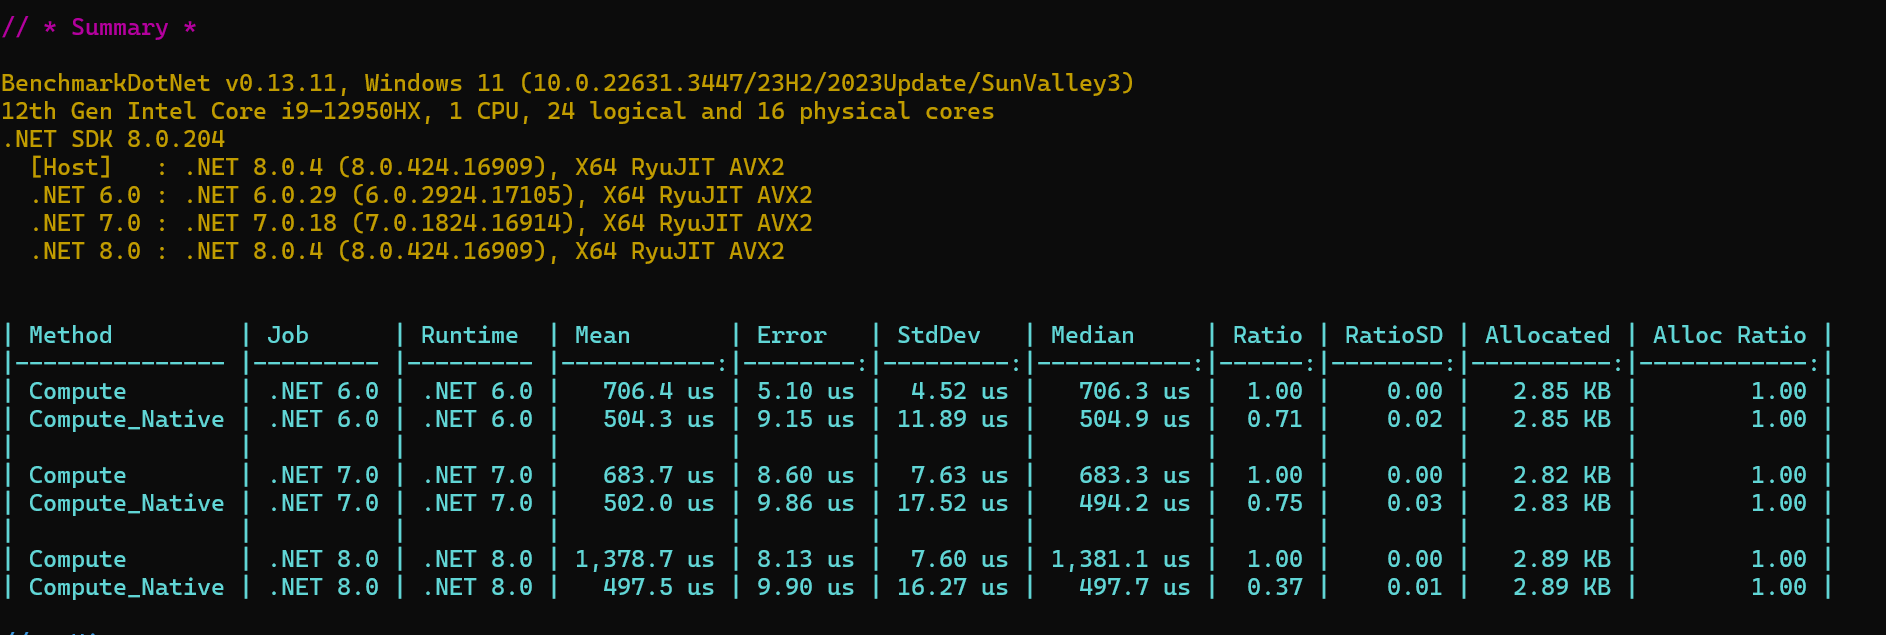
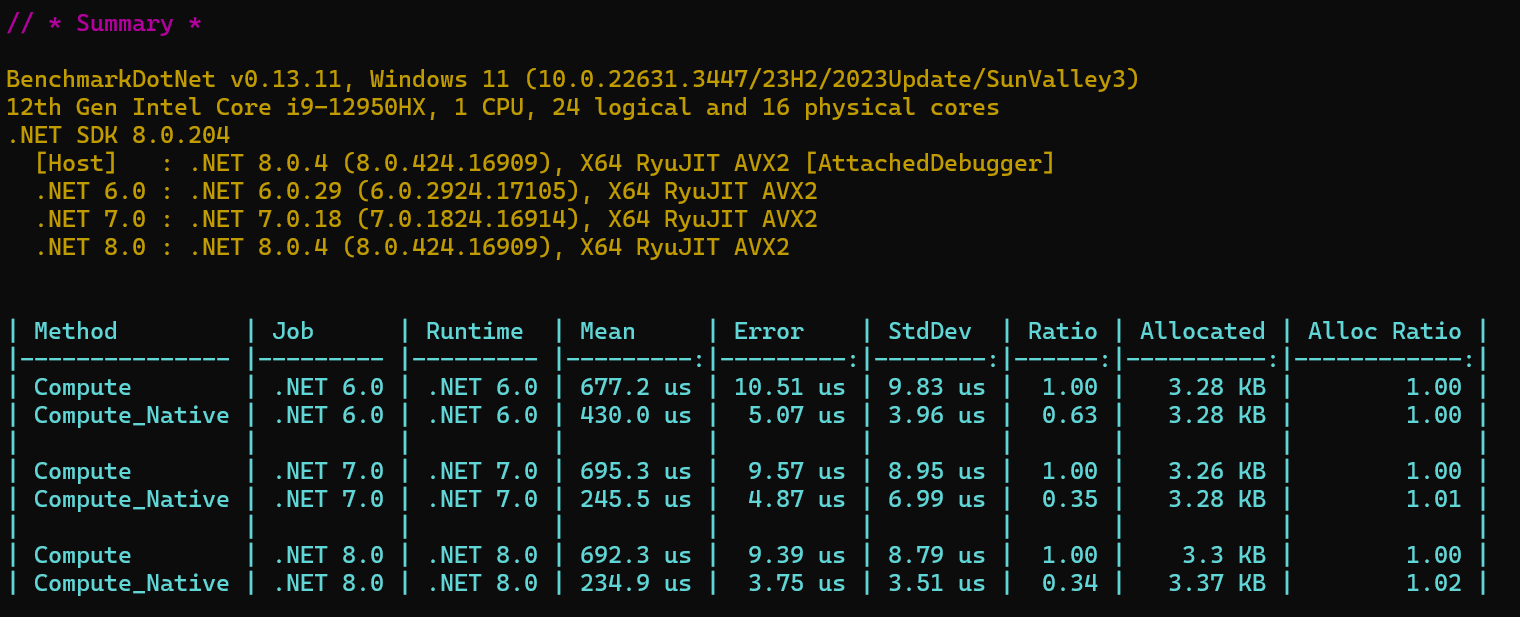
v1.2.1 (#4)
* fix .NET 8 performance loss

* pinvoke source generation on .net 7/8

* update readme

Changed region(s): [[0.0, 0.4927, 0.9895, 0.9546], [0.0, 0.0924, 0.7421, 0.4311], [0.0, 0.0308, 0.1237, 0.0616]]

diff --git a/VSOP2013.NET/Utility.cs b/VSOP2013.NET/Utility.cs
@@ -55,7 +55,7 @@ namespace VSOP2013
         }
 
         /// <summary>
-        /// Convert cardinal coordinate to spherical coordinate
+        /// Convert cartesian coordinate to spherical coordinate
         /// </summary>
         /// <param name="xyz">x,y,z,dx,dy,dz</param>
         /// <returns>l,b,r,dl,db,dr</returns>
@@ -89,7 +89,7 @@ namespace VSOP2013
             //Sin(θ) = Cos(b), Cos(θ) = Sin(b)
             b = Math.Asin(z / r);
 
-#if NET7_0
+#if NET7_0_OR_GREATER
 
             #region vector matrix mul
 
@@ -98,6 +98,7 @@ namespace VSOP2013
                 Vector256<double> v1 = Vector256.Create(x / r                                     , y / r                                     , z / r                                                , 0);
                 Vector256<double> v2 = Vector256.Create(x * z / (r * r * Math.Sqrt(x * x + y * y)), y * z / (r * r * Math.Sqrt(x * x + y * y)), -(x * x + y * y) / (r * r * Math.Sqrt(x * x + y * y)), 0);
                 Vector256<double> v3 = Vector256.Create(-y / (x * x + y * y)                      , x / (x * x + y * y)                       , 0                                                    , 0);
+
                 Vector256<double> vv = Vector256.Create(dx                                        , dy                                        , dz                                                   , 0);
 
                 lbr[0] = l;
@@ -113,14 +114,14 @@ namespace VSOP2013
 
 #endif
 
-            // Inverse Jacobian matrix  From  Caridnal to Sperical
+            // Inverse Jacobian matrix  From  cartesian to spherical
             //https://en.wikipedia.org/wiki/Spherical_coordinate_system#Integration_and_differentiation_in_spherical_coordinates
-            double[,] J_1 = {
+            double[,] Inverse_J = {
                            {x/r                          , y/r                         , z/r                                 },
                            {x*z/(r*r*Math.Sqrt(x*x+y*y)) , y*z/(r*r*Math.Sqrt(x*x+y*y)),-(x*x+y*y)/(r*r*Math.Sqrt(x*x+y*y))  },
                            {-y/(x*x+y*y)                 , x/(x*x+y*y)                 , 0                                   }};
             double[,] Velocity = { { dx }, { dy }, { dz } };
-            var C = MultiplyMatrix(J_1, Velocity);
+            var C = MultiplyMatrix(Inverse_J, Velocity);
             dl = C[2, 0];
             db = C[1, 0];
             dr = C[0, 0];
@@ -134,13 +135,13 @@ namespace VSOP2013
             lbr[1] = b;
             lbr[2] = r;
             lbr[3] = dl;
-            lbr[4] =-db;
+            lbr[4] = -db;
             lbr[5] = dr;
             return lbr.ToArray();
         }
 
         /// <summary>
-        /// convert spherical coordinate to cardinal coordinate
+        /// convert spherical coordinate to cartesian coordinate
         /// </summary>
         /// <param name="lbr">l,b,r,dl,db,dr</param>
         /// <returns>x,y,z,dx,dy,dz</returns>
@@ -161,7 +162,7 @@ namespace VSOP2013
             y = r * Math.Cos(b) * Math.Sin(l);
             z = r * Math.Sin(b);
 
-#if NET7_0
+#if NET7_0_OR_GREATER
 
             #region vector matrix mul
 
@@ -170,6 +171,7 @@ namespace VSOP2013
                 Vector256<double> m1 = Vector256.Create(Math.Cos(b) * Math.Cos(l), r * Math.Sin(b) * Math.Cos(l), -r * Math.Cos(b) * Math.Sin(l), 0);
                 Vector256<double> m2 = Vector256.Create(Math.Cos(b) * Math.Sin(l), r * Math.Sin(b) * Math.Sin(l), r * Math.Cos(b) * Math.Cos(l) , 0);
                 Vector256<double> m3 = Vector256.Create(Math.Sin(b)              , -r * Math.Cos(b)             , 0                             , 0);
+                
                 Vector256<double> vv = Vector256.Create(dr                       , db                           , dl                            , 0);
 
                 xyz[0] = x;
@@ -184,7 +186,7 @@ namespace VSOP2013
             #endregion vector matrix mul
 
 #endif
-            // Jacobian matrix From Sperical to Caridnal
+            // Jacobian matrix From spherical to cartesian
             //https://en.wikipedia.org/wiki/Spherical_coordinate_system#Integration_and_differentiation_in_spherical_coordinates
             double[,] J = {
                            { Math.Cos(b) * Math.Cos(l),  r * Math.Sin(b) * Math.Cos(l), -r * Math.Cos(b) * Math.Sin(l)  },
@@ -201,18 +203,18 @@ namespace VSOP2013
             xyz[2] = z;
             xyz[3] = dx;
             xyz[4] = dy;
-            xyz[5] =-dz;
+            xyz[5] = -dz;
             return xyz.ToArray();
         }
 
         /// <summary>
-        /// Convert Elliptic coordinate to cardinal coordinate.
+        /// Convert Elliptic coordinate to cartesian coordinate.
         /// This is kind of magic that I will never understand.
         /// Directly translate from VSOP2013.f.
         /// </summary>
         /// <param name="body">planet</param>
         /// <param name="ell">Elliptic Elements: a,l,k,h,q,p </param>
-        /// <returns>Cardinal Heliocentric Coordinates</returns>
+        /// <returns>cartesian Heliocentric Coordinates</returns>
         public static double[] ELLtoXYZ(VSOPBody body, double[] ell)
         {
             Span<double> xyz = stackalloc double[6];
@@ -289,7 +291,7 @@ namespace VSOP2013
         }
 
         /// <summary>
-        /// Convert innertial frame from dynamical to ICRS.
+        /// Convert inertial frame from dynamical to ICRS.
         /// </summary>
         /// <param name="dynamical">Ecliptic Heliocentric Coordinates - Dynamical Frame J2000</param>
         /// <returns>Equatorial Heliocentric Coordinates - ICRS Frame J2000</returns>
@@ -308,12 +310,13 @@ namespace VSOP2013
             Sphi = Math.Sin(phi);
             Cphi = Math.Cos(phi);
 
-#if NET7_0
+#if NET7_0_OR_GREATER
             if (Vector256.IsHardwareAccelerated)
             {
                 Vector256<double> m1 = Vector256.Create(Cphi, -Sphi * Ceps, Sphi * Seps, 0);
                 Vector256<double> m2 = Vector256.Create(Sphi, Cphi * Ceps, -Cphi * Seps, 0);
                 Vector256<double> m3 = Vector256.Create(0, Seps, Ceps, 0);
+                
                 Vector256<double> vv = Vector256.Create(dynamical[0], dynamical[1], dynamical[2], 0);
                 Vector256<double> vdv = Vector256.Create(dynamical[3], dynamical[4], dynamical[5], 0);
 
@@ -333,7 +336,7 @@ namespace VSOP2013
                                           {Sphi,  Cphi*Ceps, -Cphi*Seps },
                                           {0,     Seps,       Ceps      }};
 
-            // Vector for cardinal coordnate element
+            // Vector for cartesian coordinate element
             double[,] A = new double[,] { {dynamical[0]},
                                           {dynamical[1]},
                                           {dynamical[2]}};
@@ -357,7 +360,7 @@ namespace VSOP2013
         }
 
         /// <summary>
-        /// Convert innertial frame from ICRS to dynamical.
+        /// Convert inertial frame from ICRS to dynamical.
         /// </summary>
         /// <param name="icrs">Equatorial Heliocentric Coordinates - ICRS Frame J2000</param>
         /// <returns>Ecliptic Heliocentric Coordinates - Dynamical Frame J2000</returns>
@@ -376,7 +379,7 @@ namespace VSOP2013
             Sphi = Math.Sin(phi);
             Cphi = Math.Cos(phi);
 
-#if NET7_0
+#if NET7_0_OR_GREATER
 
             #region vector matrix mul
 
@@ -385,6 +388,7 @@ namespace VSOP2013
                 Vector256<double> m1 = Vector256.Create(Cphi, Sphi, 0, 0);
                 Vector256<double> m2 = Vector256.Create(-Sphi * Ceps, Cphi * Ceps, Seps, 0);
                 Vector256<double> m3 = Vector256.Create(Sphi * Seps, -Cphi * Seps, Ceps, 0);
+                
                 Vector256<double> vv = Vector256.Create(icrs[0], icrs[1], icrs[2], 0);
                 Vector256<double> vdv = Vector256.Create(icrs[3], icrs[4], icrs[5], 0);
 
@@ -406,7 +410,7 @@ namespace VSOP2013
             double[,] R_1 = new double[,] {{ Cphi,       Sphi,      0    },
                                            {-Sphi*Ceps,  Cphi*Ceps, Seps },
                                            { Sphi*Seps, -Cphi*Seps, Ceps }};
-            // Vector for cardinal coordnate element
+            // Vector for cartesian coordinate element
             double[,] A = new double[,] { {icrs[0]},
                                           {icrs[1]},
                                           {icrs[2]}};

diff --git a/VSOP2013.NET/Calculator.cs b/VSOP2013.NET/Calculator.cs
@@ -1,15 +1,25 @@
 using MessagePack;
 using System.IO.Compression;
 using System.Reflection;
+using System.Runtime.CompilerServices;
 using System.Runtime.InteropServices;
+using System.Runtime.Intrinsics;
 
 namespace VSOP2013
 {
+#if NET6_0
     public class Calculator
     {
-
         [DllImport("Resources/NativeAccelerator.dll")]
-        private static extern double StartIteration(Term[] terms,int length, double tj, double tit);
+        public static extern double StartIteration(Term[] terms, int length, double tj, double tit);
+#elif NET7_0_OR_GREATER
+    public partial class Calculator
+    {
+        [LibraryImport("Resources/NativeAccelerator.dll", EntryPoint = "StartIteration", StringMarshalling = StringMarshalling.Utf16)]
+        internal static partial double StartIteration(Term[] terms, int length, double tj, double tit);
+#endif
+        [MethodImpl(MethodImplOptions.NoInlining)]
+        private static Vector128<float> GetZero() => Vector128<float>.Zero;
 
         private List<PlanetTable> VSOP2013DATA;
 
@@ -62,6 +72,7 @@ namespace VSOP2013
             VSOPResult_ELL Coordinate = new(body, time, ELL);
             return Coordinate;
         }
+
         public VSOPResult_ELL GetPlanetPosition_Native(VSOPBody body, VSOPTime time)
         {
             double[] ELL = new double[6];
@@ -77,11 +88,11 @@ namespace VSOP2013
         {
             return await Task.Run(() => GetPlanetPosition(body, time));
         }
+
         public async Task<VSOPResult_ELL> GetPlanetPositionAsync_Native(VSOPBody body, VSOPTime time)
         {
             return await Task.Run(() => GetPlanetPosition_Native(body, time));
         }
-
 
         /// <summary>
         /// Calculate a specific variable
@@ -94,6 +105,7 @@ namespace VSOP2013
         {
             return Calculate(VSOP2013DATA[(int)body].variables[iv], time.J2000);
         }
+
         public double GetVariable_Native(VSOPBody body, int iv, VSOPTime time)
         {
             return Calculate_Native(VSOP2013DATA[(int)body].variables[iv], time.J2000);
@@ -103,6 +115,7 @@ namespace VSOP2013
         {
             return await Task.Run(() => GetVariable(body, iv, time));
         }
+
         public async Task<double> GetVariableAsync_Native(VSOPBody body, int iv, VSOPTime time)
         {
             return await Task.Run(() => GetVariable_Native(body, iv, time));
@@ -135,15 +148,14 @@ namespace VSOP2013
             {
                 if (Table.PowerTables[it].Terms == null) continue;
                 terms = Table.PowerTables[it].Terms;
+#if NET8_0
+                // Detail https://github.com/dotnet/runtime/issues/95954
+                _ = GetZero();
+#endif
                 for (int n = 0; n < terms.Length; n++)
                 {
                     u = terms[n].aa + terms[n].bb * tj;
-#if NET8_0
-                    su = Math.Sin(u);
-                    cu = Math.Cos(u);
-#else
                     (su, cu) = Math.SinCos(u);
-#endif
                     result += t[it] * (terms[n].ss * su + terms[n].cc * cu);
                 }
             }
@@ -186,6 +198,5 @@ namespace VSOP2013
             }
             return result;
         }
-
     }
 }

diff --git a/DataConverter/Program.cs b/DataConverter/Program.cs
@@ -76,15 +76,13 @@ namespace VSOP2013.DataConverter
             Console.WriteLine("Press Enter to exit...");
             Console.ReadLine();
 
-            ProcessStartInfo startInfo = new ProcessStartInfo
+            // Open explorer to output path.
+            Process.Start(new ProcessStartInfo
             {
                 FileName = "explorer.exe",
                 Arguments = OutputDir.FullName,
                 UseShellExecute = true
-            };
-
-            // 使用Process.Start启动进程
-            Process.Start(startInfo);
+            });
 
             #endregion Test
         }

diff --git a/VSOP2013.NET/VSOPResult/VSOPResult_XYZ.cs b/VSOP2013.NET/VSOPResult/VSOPResult_XYZ.cs
@@ -24,7 +24,7 @@
                 else if (_referenceFrame == ReferenceFrame.ICRSJ2000 && value == ReferenceFrame.DynamicalJ2000)
                 {
                     Variables_XYZ = Utility.ICRStoDynamical(Variables_XYZ);
-                    _referenceFrame = ReferenceFrame.DynamicalJ2000;
+                    _referenceFrame = value;
                     _coordinatesReference = CoordinatesReference.EclipticHeliocentric;
                 }
             }

diff --git a/VSOP2013.NET/VSOPResult/VSOPResult_LBR.cs b/VSOP2013.NET/VSOPResult/VSOPResult_LBR.cs
@@ -36,12 +36,6 @@
 
         public double[] Variables_LBR { get; set; }
 
-        /// <summary>
-        ///
-        /// </summary>
-        /// <param name="body"></param>
-        /// <param name="time"></param>
-        /// <param name="ell">Elliptic elements</param>
         public VSOPResult_LBR(VSOPResult_ELL result)
         {
             Variables_ELL = result.Variables_ELL;

diff --git a/VSOP2013.NET/DataStruct.cs b/VSOP2013.NET/DataStruct.cs
@@ -68,7 +68,7 @@ namespace VSOP2013
         public int TermsCount;
 
         [Key(4)]
-        public Term[] Terms;      
+        public Term[] Terms;
     }
 
     [MessagePackObject]

diff --git a/README.md b/README.md
@@ -45,7 +45,7 @@ Note: .NET 8 occurs performance regression due to RyuJIT bugs. [Detail Here](htt
 8. Brotli compression on source data. ~300Mb -> ~50MB.
 9. Optional Native Side library accelerate. (Only on Windows)
 
-<br>
+<br> 
 
 ## Introduction
 
